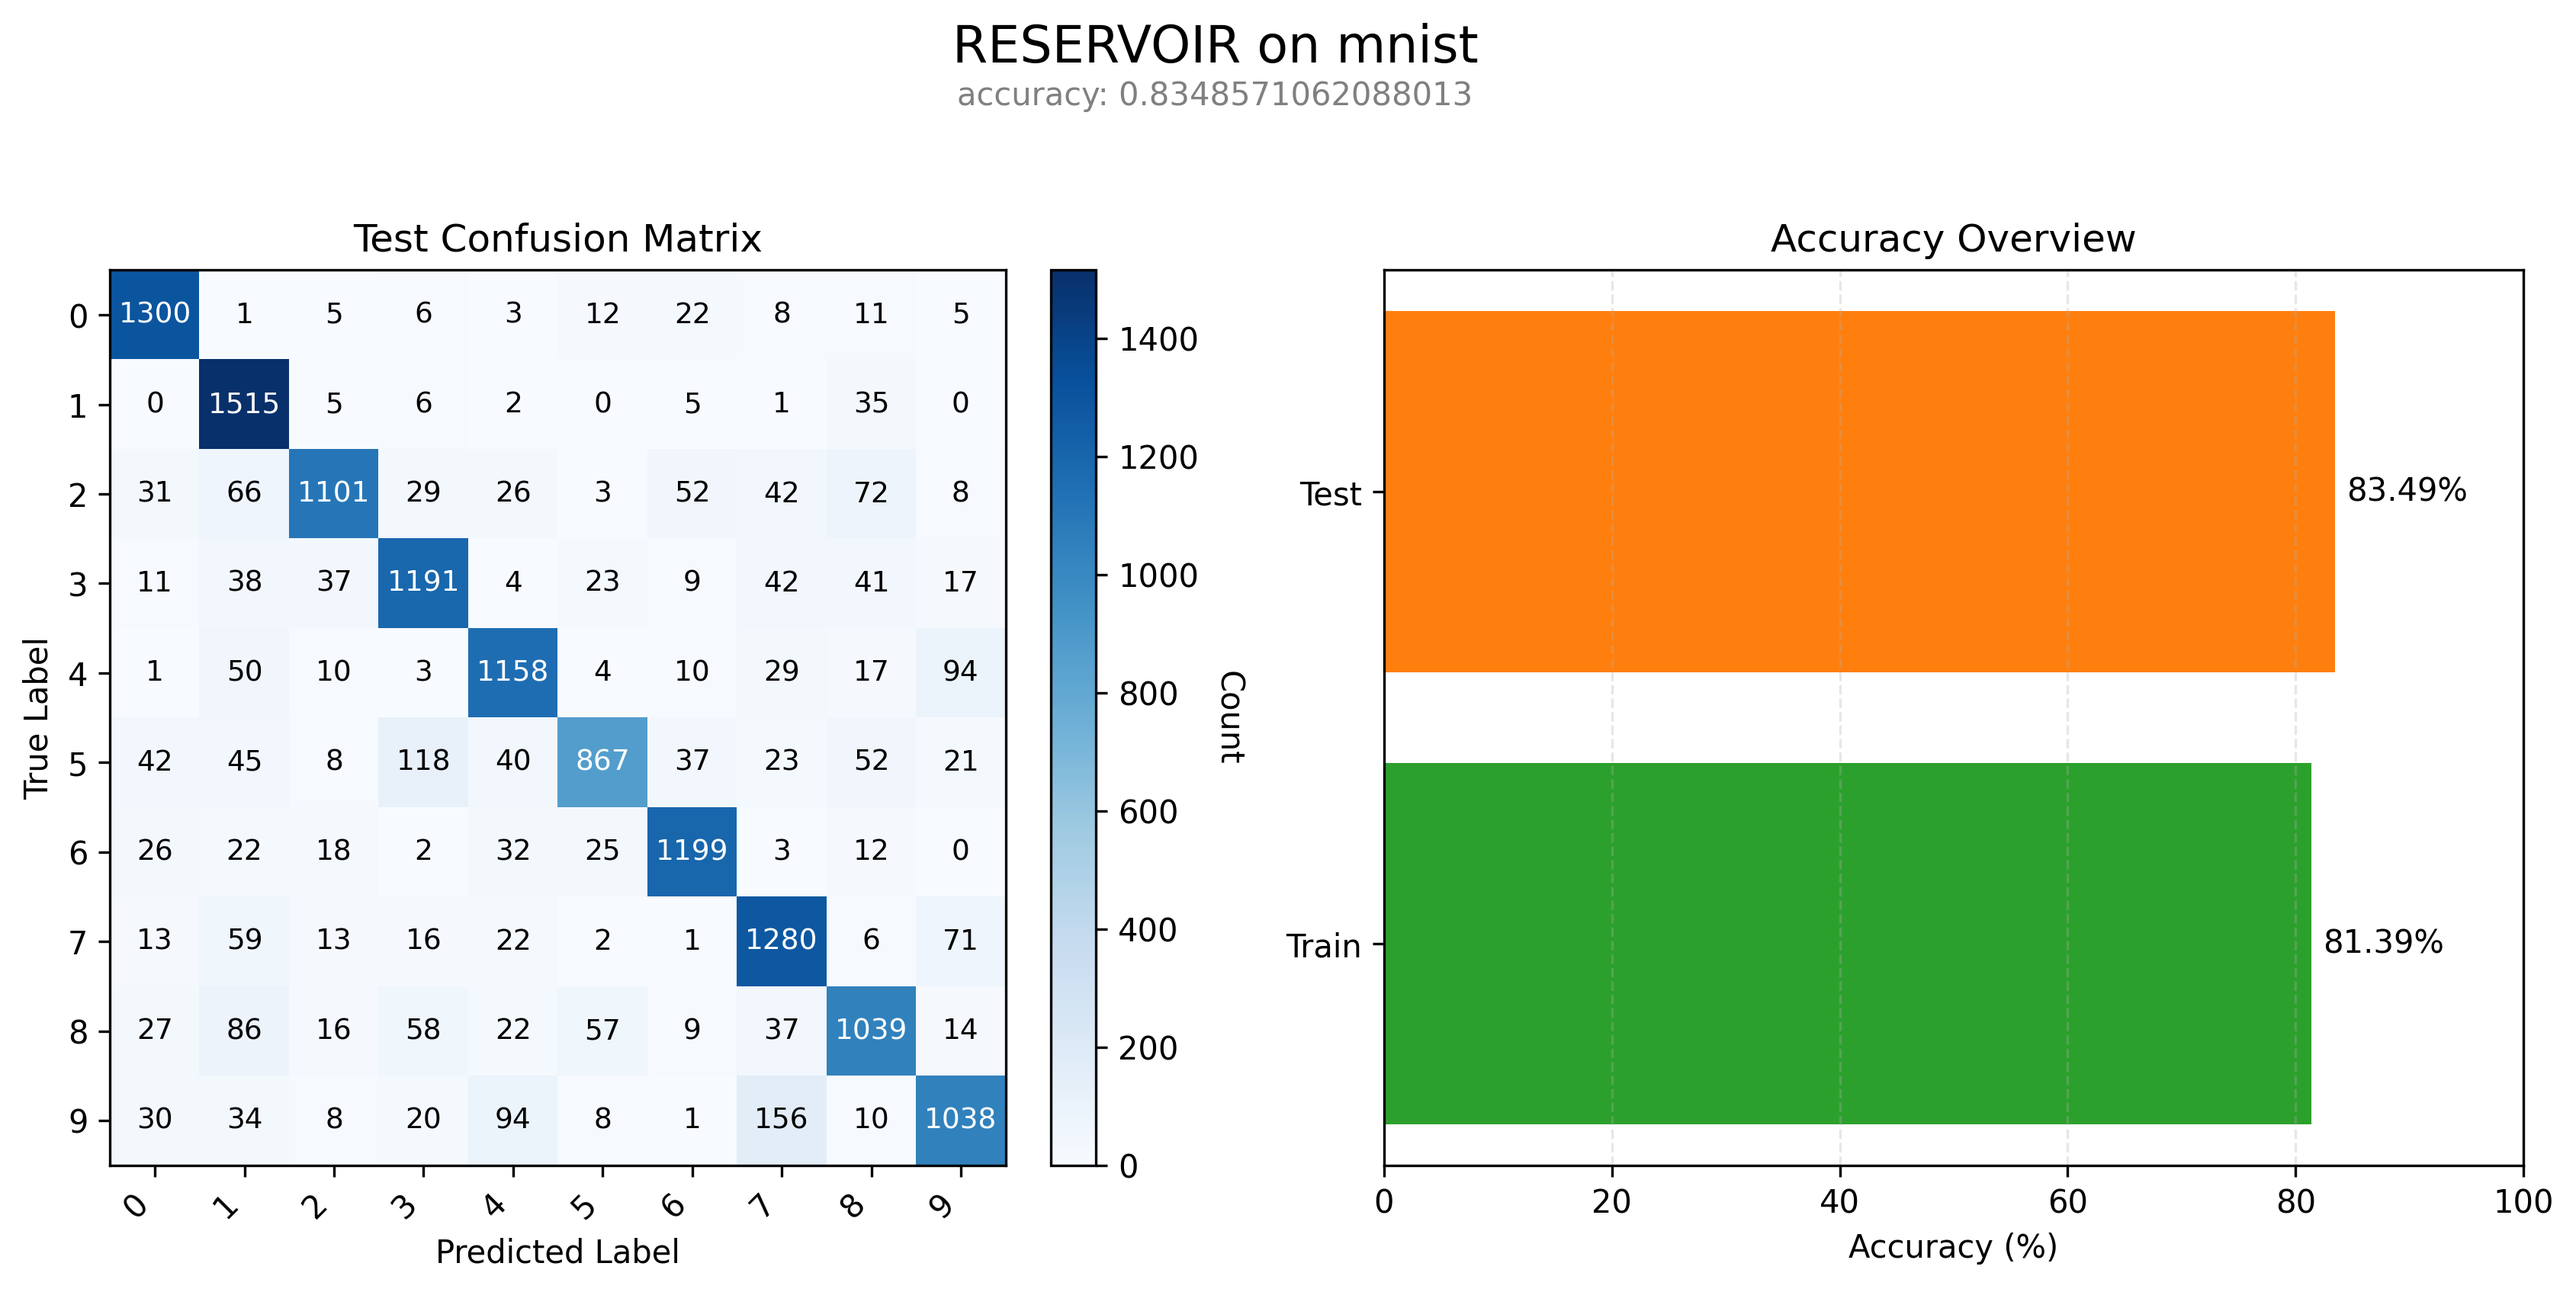
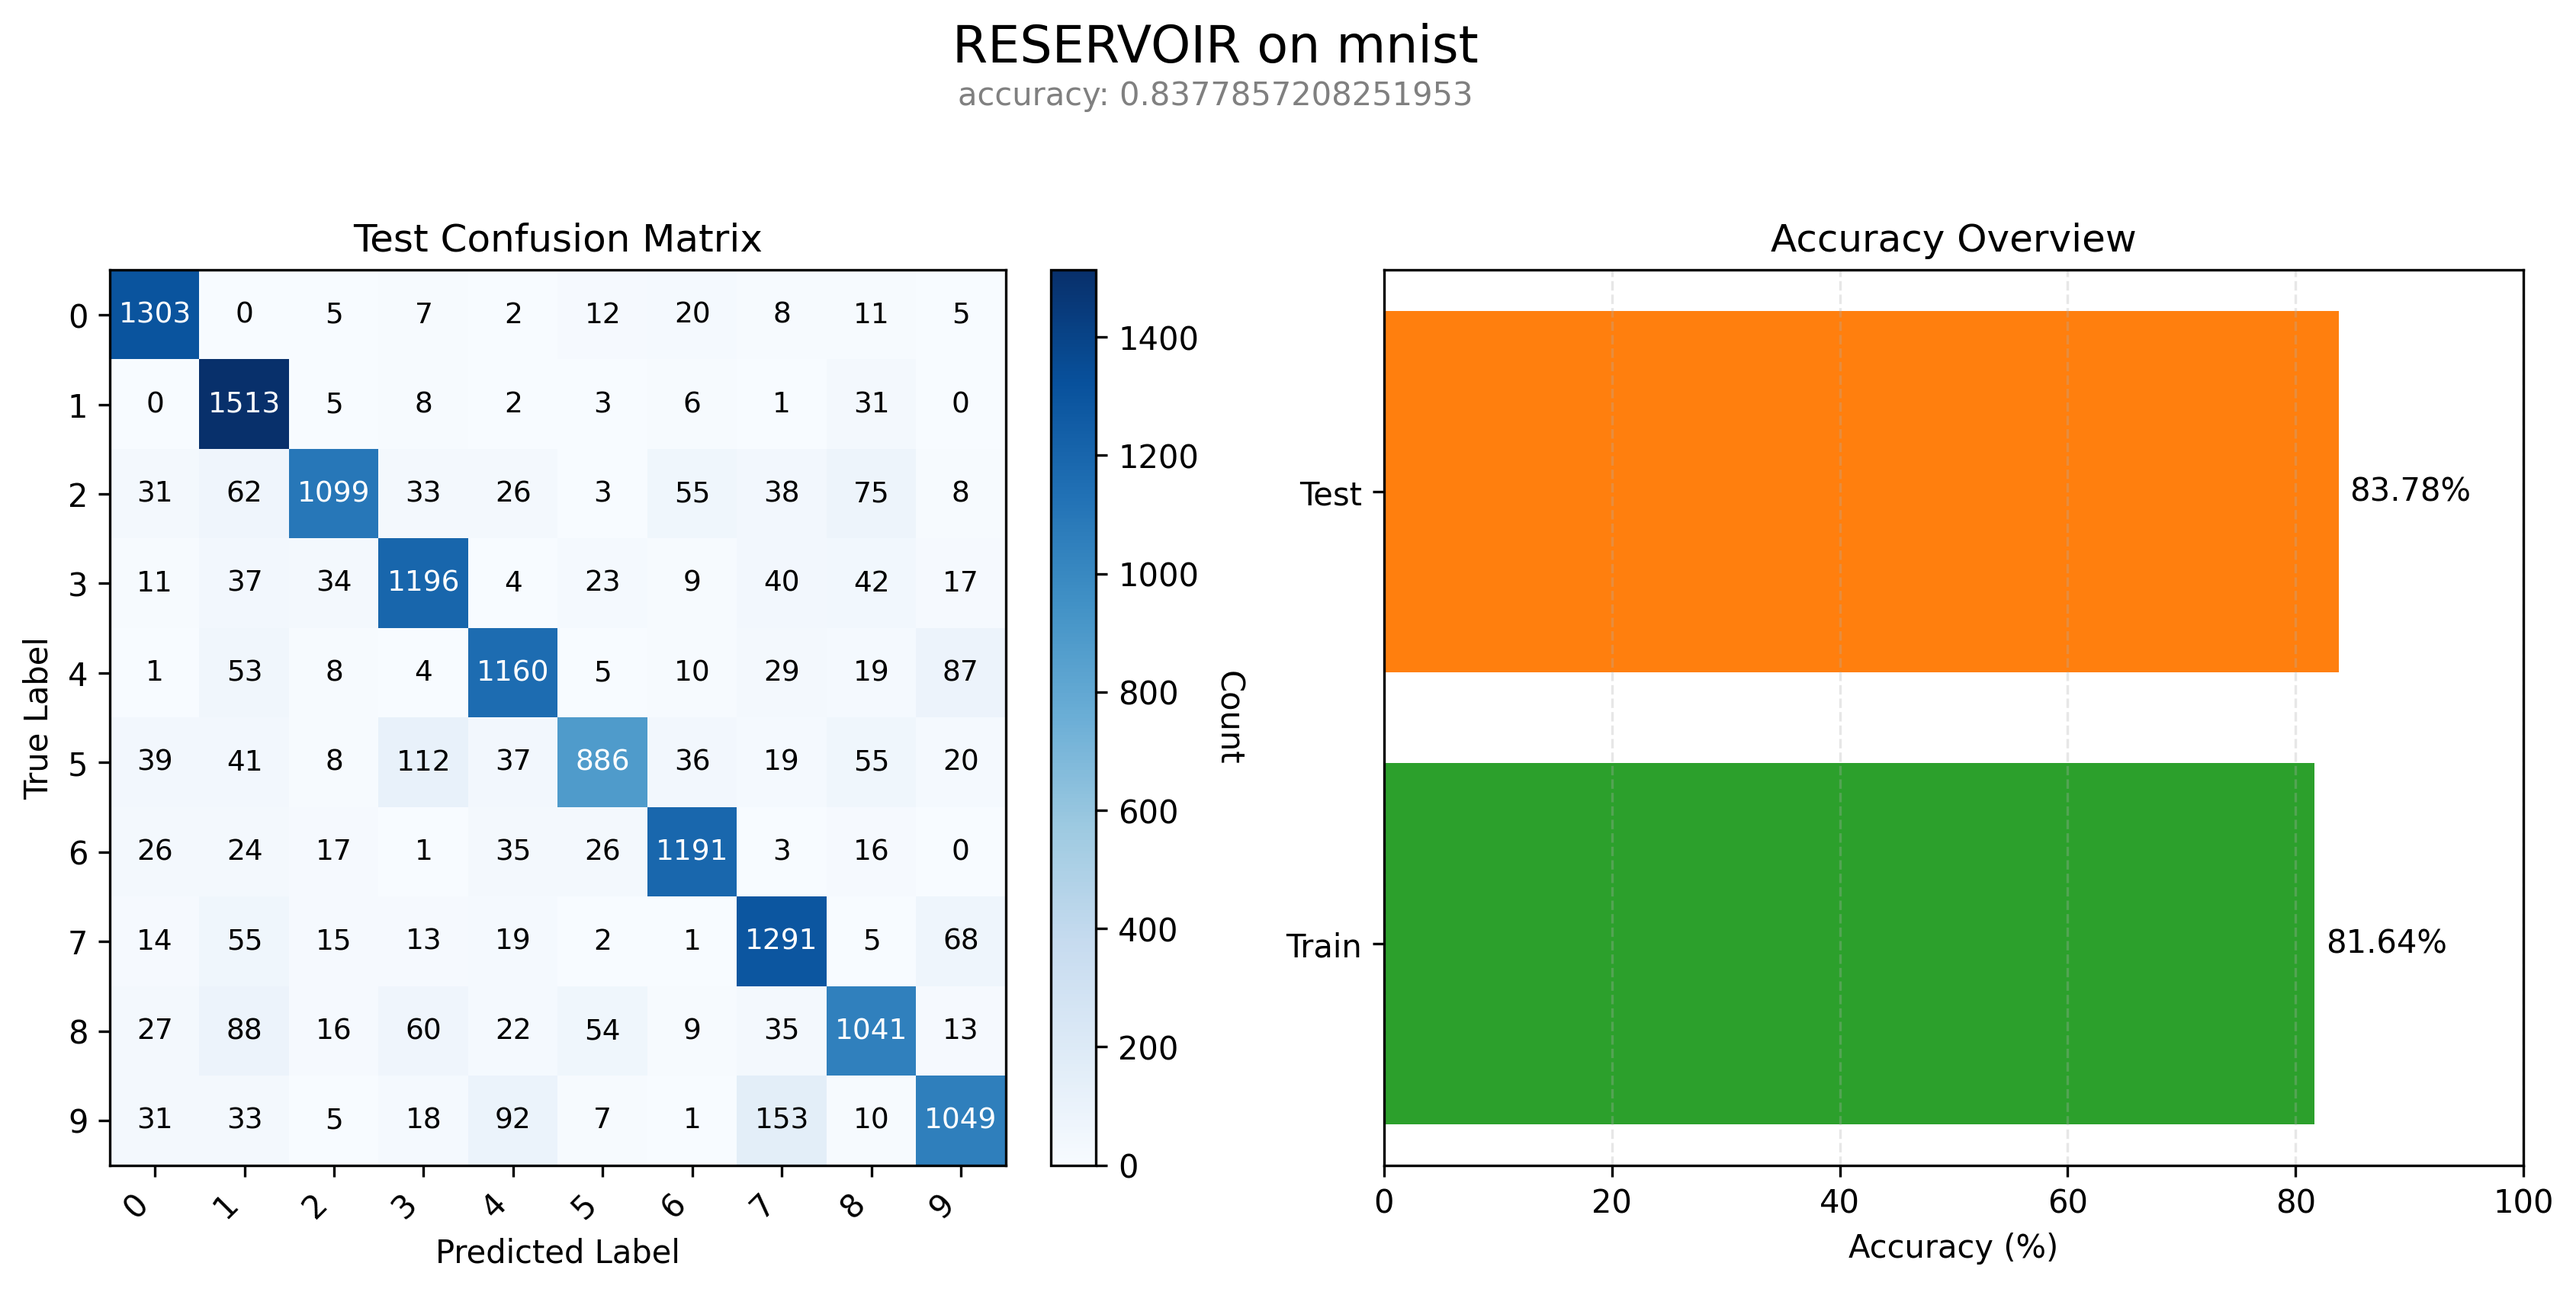
82%!

diff --git a/src/reservoir/models/reservoir/classical.py b/src/reservoir/models/reservoir/classical.py
@@ -41,9 +41,10 @@ class ClassicalReservoir(Reservoir):
         self._init_weights()
 
     def _init_weights(self) -> None:
-        k_in, k_res, k_bias = jax.random.split(self._rng, 3)
+        k_in, k_res, k_bias, k_mask_in, k_mask_res = jax.random.split(self._rng, 5)
         self._rng = k_bias
-        boundary = self.input_scale / jnp.sqrt(self.n_inputs)
+
+        boundary = self.input_scale
         self.Win = jax.random.uniform(
             k_in,
             (self.n_inputs, self.n_units),
@@ -51,13 +52,21 @@ class ClassicalReservoir(Reservoir):
             maxval=boundary,
             dtype=jnp.float64,
         )
+
+        if 0.0 < self.connectivity < 1.0:
+            mask_in = jax.random.bernoulli(k_mask_in, p=self.connectivity, shape=self.Win.shape)
+            self.Win = jnp.where(mask_in, self.Win, 0.0)
+
+        # W (Reservoir) の初期化
         W_dense = jax.random.normal(k_res, (self.n_units, self.n_units), dtype=jnp.float64)
         if 0.0 < self.connectivity < 1.0:
-            mask = jax.random.bernoulli(k_res, p=self.connectivity, shape=W_dense.shape)
-            W_dense = jnp.where(mask, W_dense, 0.0)
+            mask_res = jax.random.bernoulli(k_mask_res, p=self.connectivity, shape=W_dense.shape)
+            W_dense = jnp.where(mask_res, W_dense, 0.0)
+
         eig = jnp.max(jnp.abs(jnp.linalg.eigvals(W_dense)))
         scale = self.spectral_radius / eig if eig > 0 else 1.0
         self.W = W_dense * scale
+
         self.bias = jax.random.uniform(
             k_bias,
             (self.n_units,),
@@ -70,9 +79,14 @@ class ClassicalReservoir(Reservoir):
         return jnp.zeros((batch_size, self.n_units), dtype=jnp.float64)
 
     def step(self, state: jnp.ndarray, input_data: jnp.ndarray) -> Tuple[jnp.ndarray, jnp.ndarray]:
+        # 論文の式:   (1 - a) * state + tanh(...)
+
         pre_activation = jnp.dot(input_data, self.Win) + jnp.dot(state, self.W) + self.bias
         activated = jnp.tanh(pre_activation)
-        next_state = (1.0 - self.leak_rate) * state + self.leak_rate * activated
+
+        # 論文 Eq(7) 通りの実装
+        next_state = (1.0 - self.leak_rate) * state + activated
+
         return next_state, next_state
 
     def forward(self, state: jnp.ndarray, input_data: jnp.ndarray) -> Tuple[jnp.ndarray, StepArtifacts]:

diff --git a/src/reservoir/training/presets.py b/src/reservoir/training/presets.py
@@ -31,7 +31,7 @@ class TrainingConfig:
     # Replaces 'ridge_alpha'. Defines the search space for validation.
     # Default is a log-spaced range around typical values.
     ridge_lambdas: List[float] = field(
-        default_factory=lambda: [1e-7, 1e-6, 1e-5, 1e-4, 1e-3, 1e-2, 1e-1, 1e0, 1e1, 1e2, 1e3, 1e4, 1e5, 1e6, 1e7]
+        default_factory=lambda: [1e-10, 1e-9, 1e-8, 1e-7, 1e-6, 1e-5, 1e-4, 1e-3, 1e-2, 1e-1, 1e0, 1e1, 1e2, 1e3, 1e4, 1e5, 1e6, 1e7]
     )
 
     # Data Splitting

diff --git a/pipelines/run.py b/pipelines/run.py
@@ -373,7 +373,7 @@ def run_pipeline(
         sorted_lambdas = sorted(history.keys())
         for lam in sorted_lambdas:
             score = history[lam]
-            marker = " 🏆 Best" if (best_lam is not None and jnp.isclose(lam, best_lam)) else ""
+            marker = " 🏆 Best" if (best_lam is not None and lam == best_lam) else ""
             print(f"   λ = {float(lam):.2e} : Val Score = {float(score):.4f}{marker}")
         print("=" * 40 + "\n")
 
